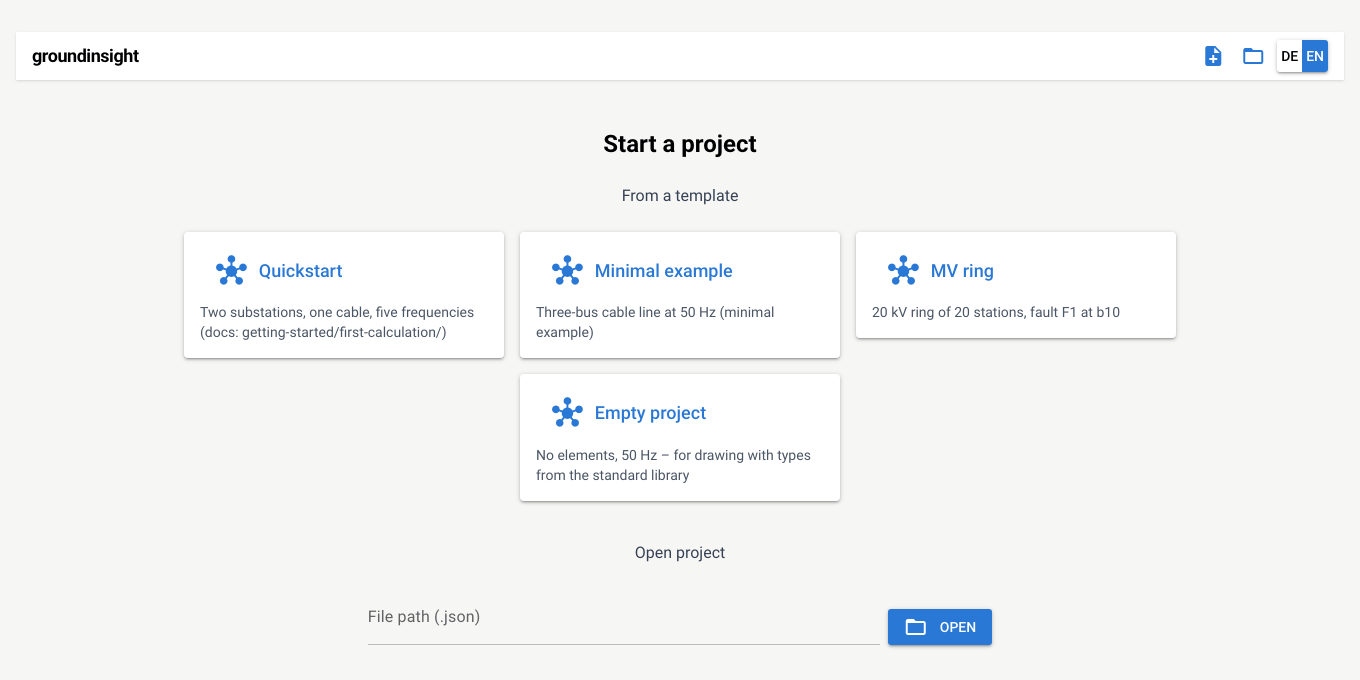
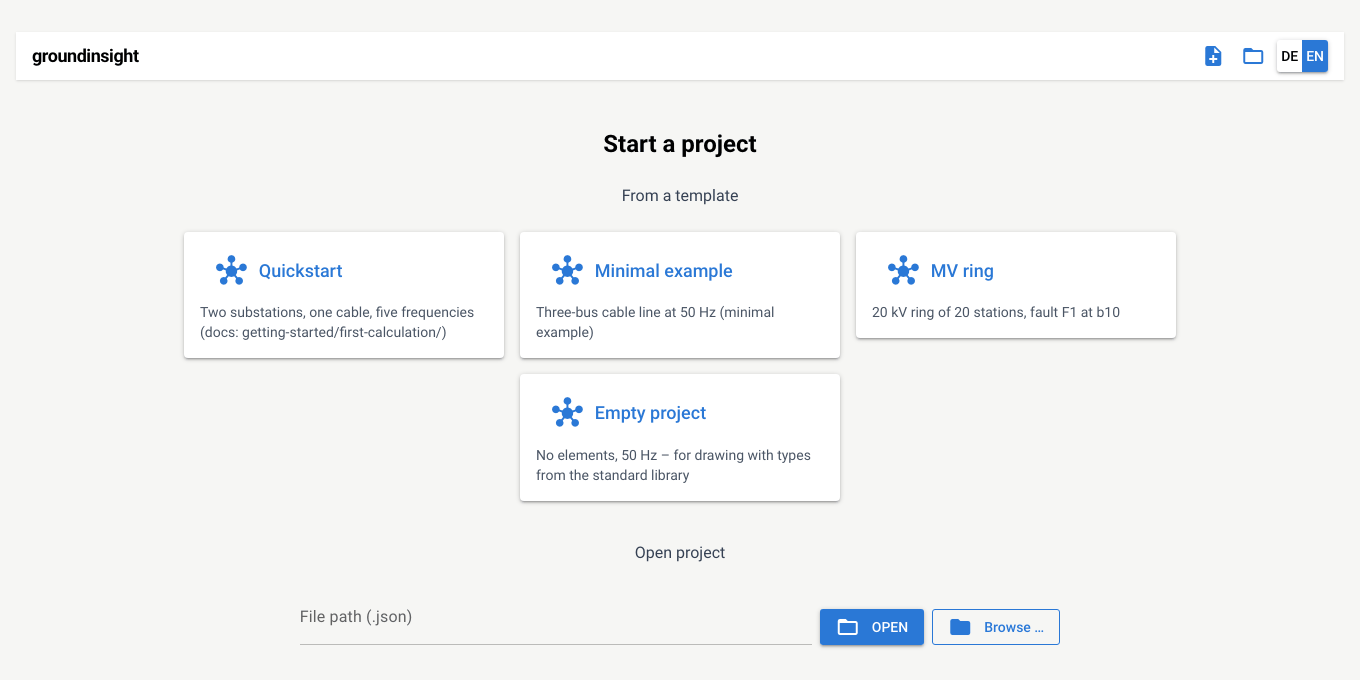
docs: the GUI tutorial with one reduction factor, the file manager and the assessment criteria
Pictures retaken in the English interface; the GUI shows the numbers of the
text (296.5 V, r 0.3834, I_E 383.4 A, Z_E 0.7718 Ohm).

Changed region(s): [[0.5868, 0.8956, 0.7721, 0.9574], [0.2162, 0.8956, 0.3706, 0.9265]]

diff --git a/docs/getting-started/gui.md b/docs/getting-started/gui.md
@@ -95,8 +95,10 @@ network.
 
 ![The plan coloured by the EPR, from 33 V at bus_fault to 326 V at bus_source](img/gui-epr.png)
 
-**Save as** writes the project file — network, plan and evaluation tabs in
-one JSON file that the library reads with `gi.load_project`.
+**Save as** opens the file manager: walk to a folder, type a name and save.
+The project file holds network, plan, evaluation tabs and the assessment
+criteria in one JSON file that the library reads with `gi.load_project`;
+**Open** lists the project files of a folder the same way.
 
 ## 5. The same network with the library
 
@@ -137,10 +139,18 @@ too: `gi.load_project(path).network`, solved for `F1`, is this network.
 
 ## Where to go next
 
+- **Assessment criteria …** on the *Network* tab takes the limits of the
+  project — `U_E`, the touch voltage (a value or the curve of the standard),
+  an admissible short-time current per cable type — and the plan then
+  colours the result by its utilisation in percent of each limit: EPR,
+  touch voltage and the thermal load of shields, earthing conductors and
+  electrodes ([Reduction factors and earthing impedance](../explanation/reduction-factors.md)
+  explains `r` and `I_E`).
 - The GUI covers the whole library. **Calculation** runs all faults, the
   pre-flight check, outage and rho-f studies, cuts, the bus response, the
-  thermal and touch-voltage checks of EN 50522, transients and the reference
-  cases; their tables are the library's frames.
+  thermal and touch-voltage checks of EN 50522, transients — with the
+  signals of the chart to choose and minimum, maximum and RMS over a time
+  window — and the reference cases; their tables are the library's frames.
 - An earthing characteristic of a station — impedance, touch factor and
   transfer factor over ρ and f, typically from a field calculation — goes on
   the *Earthing characteristic* tab of the bus dialog
